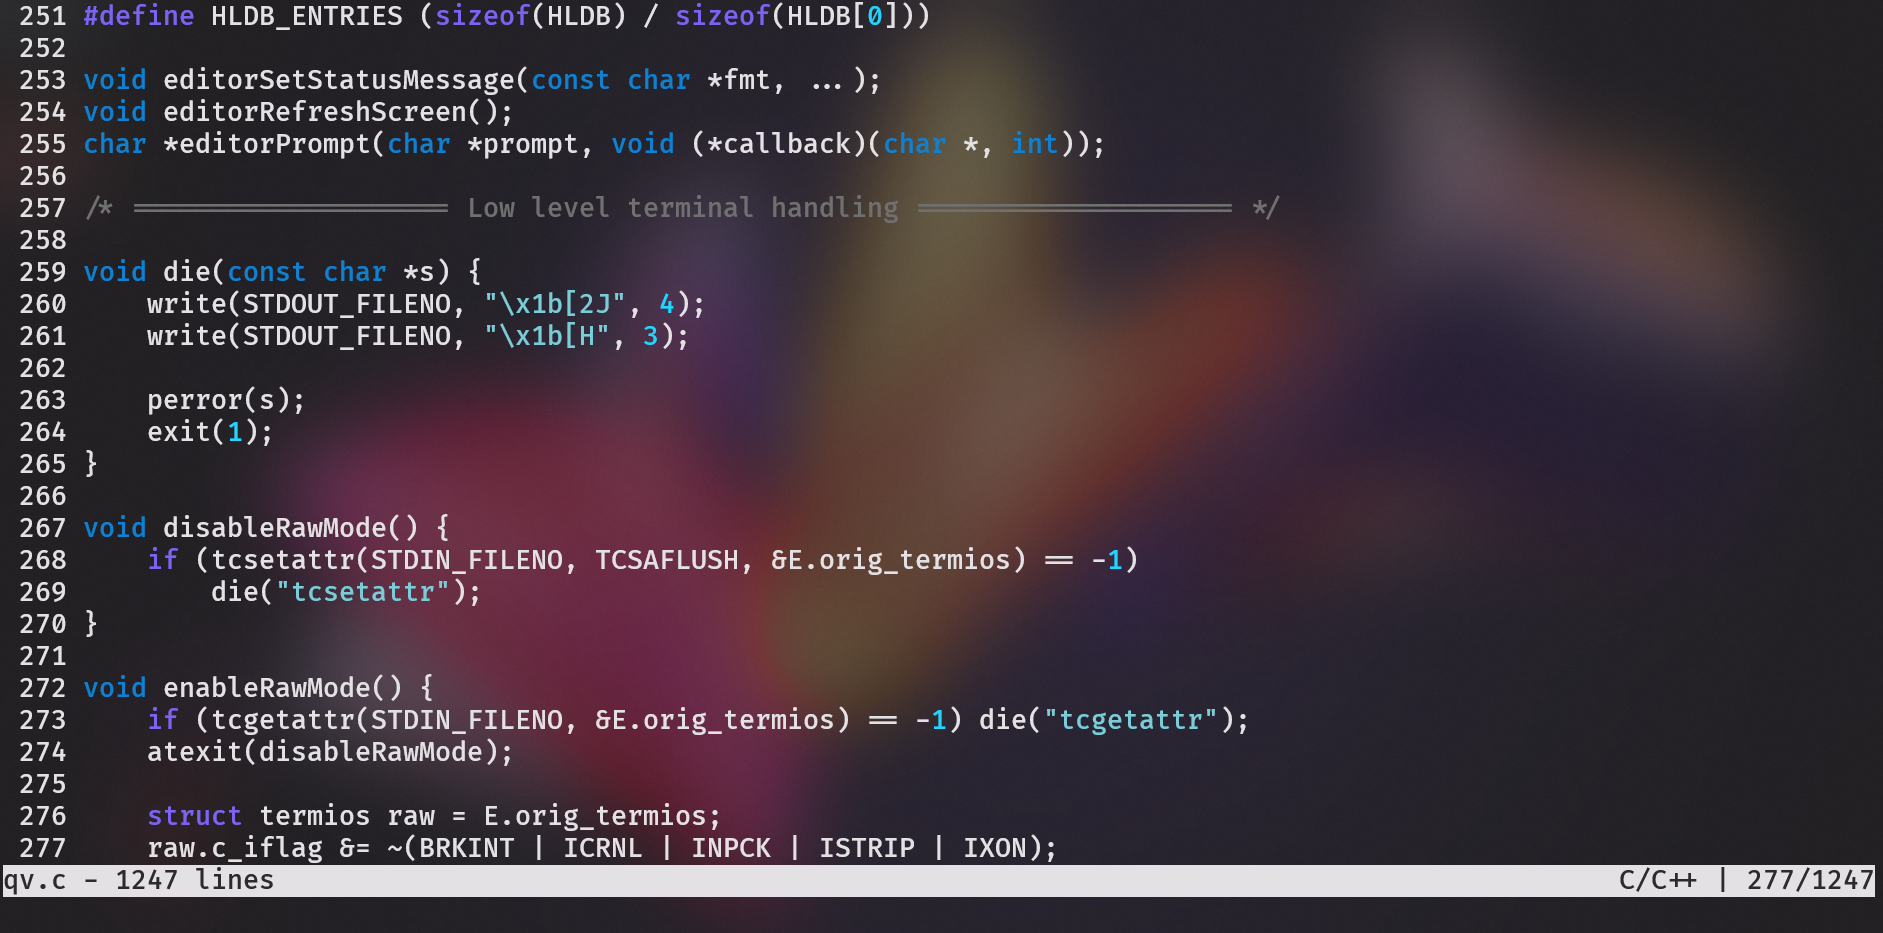
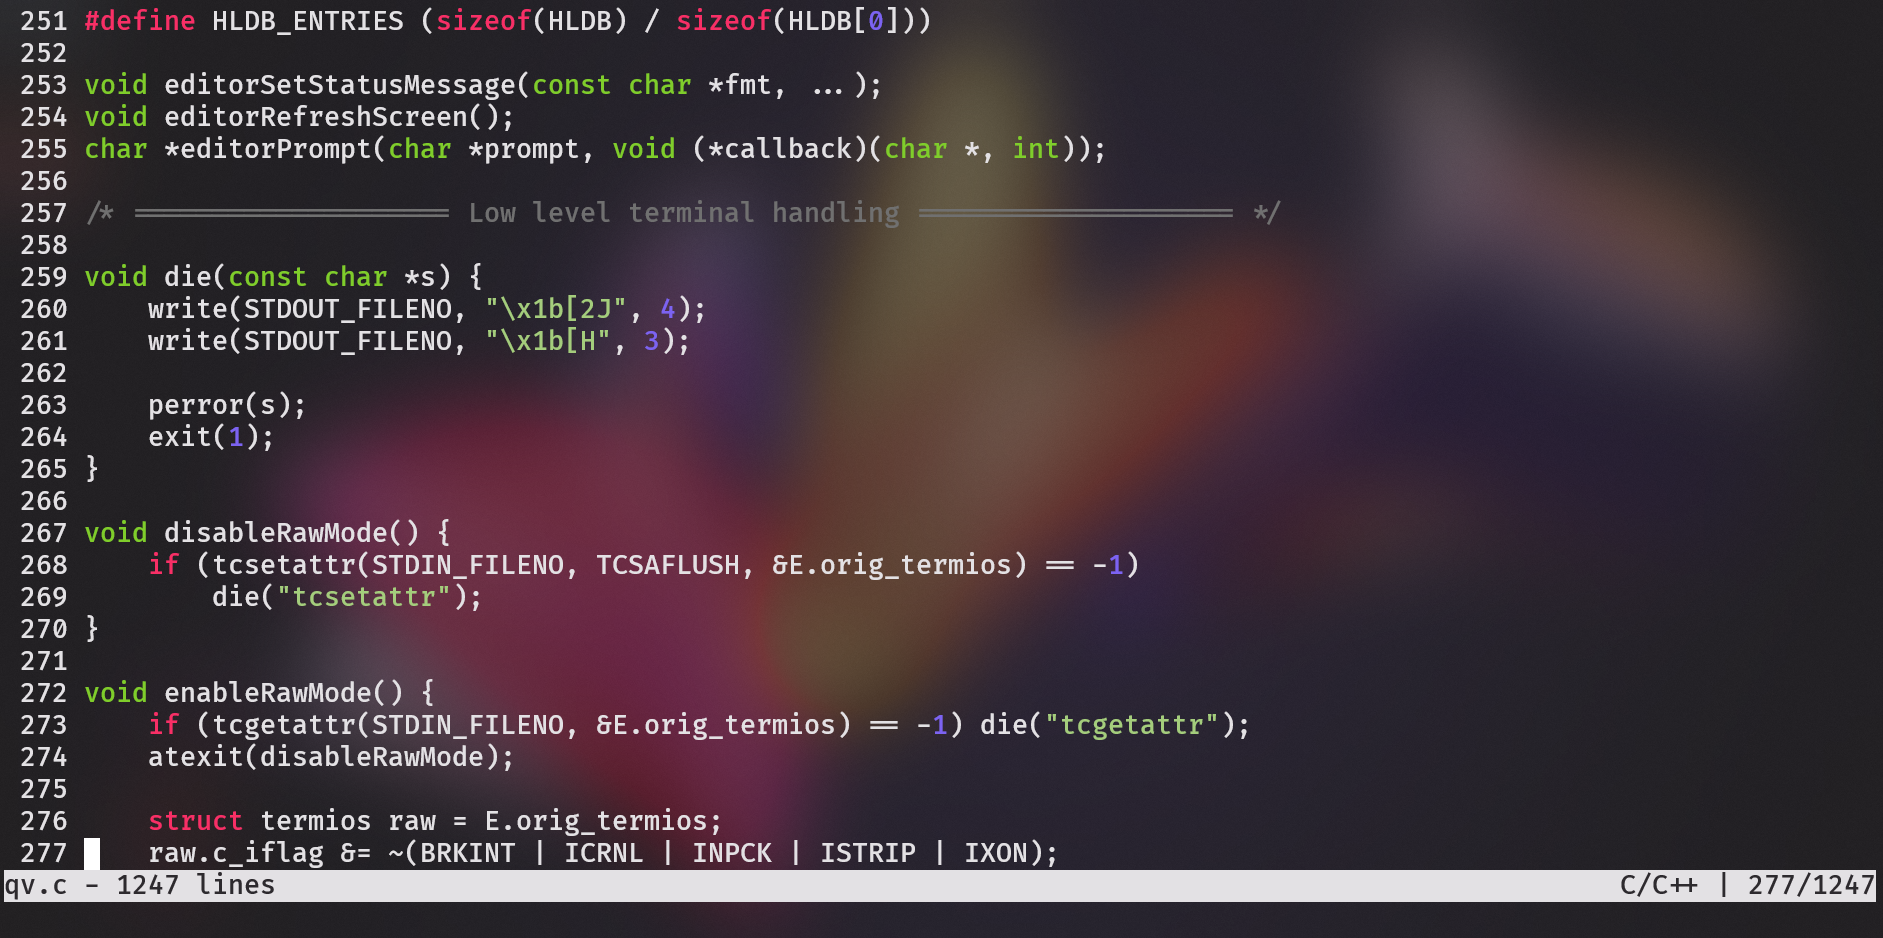
Fixed some theming

diff --git a/src/qv.c b/src/qv.c
@@ -137,8 +137,8 @@ struct editorConfig E;
  */
 
 const struct editorTheme sonokai = {
-    90, 31, 32, 96,
-    94, 34, 37, 
+    90, 31, 32, 92,
+    35, 34, 37, 
 };
 
 struct editorTheme T = {
